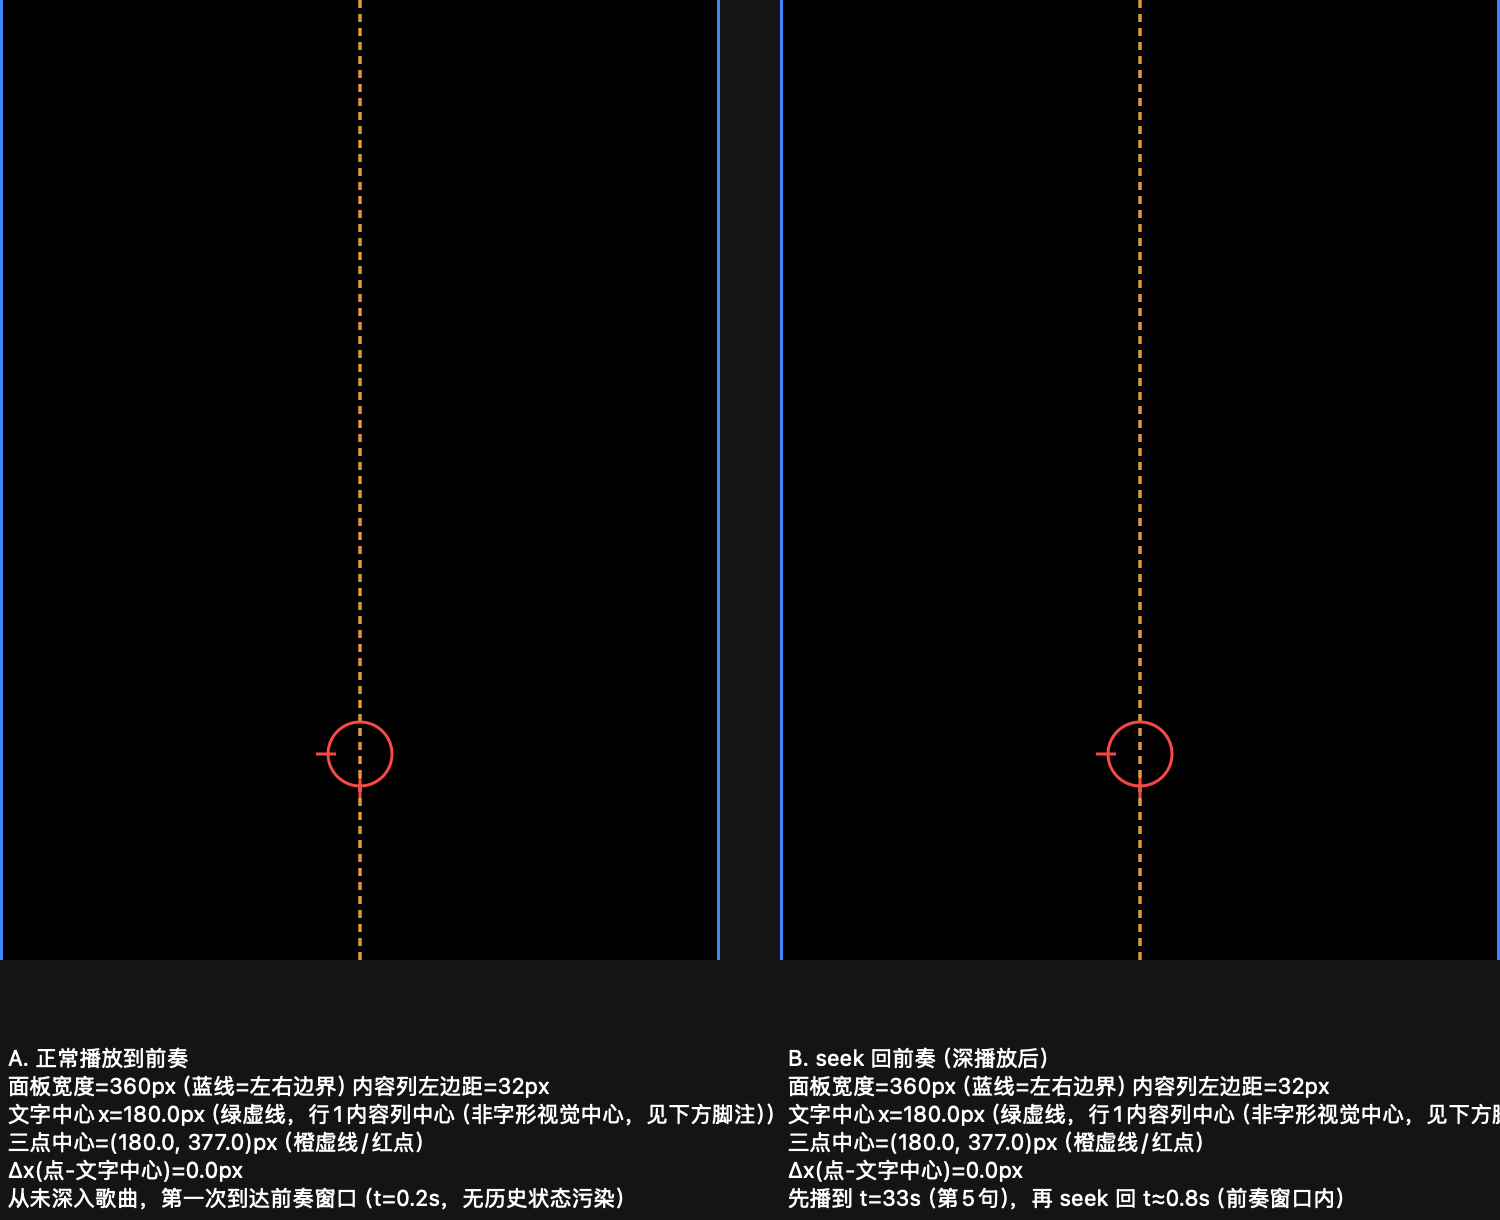
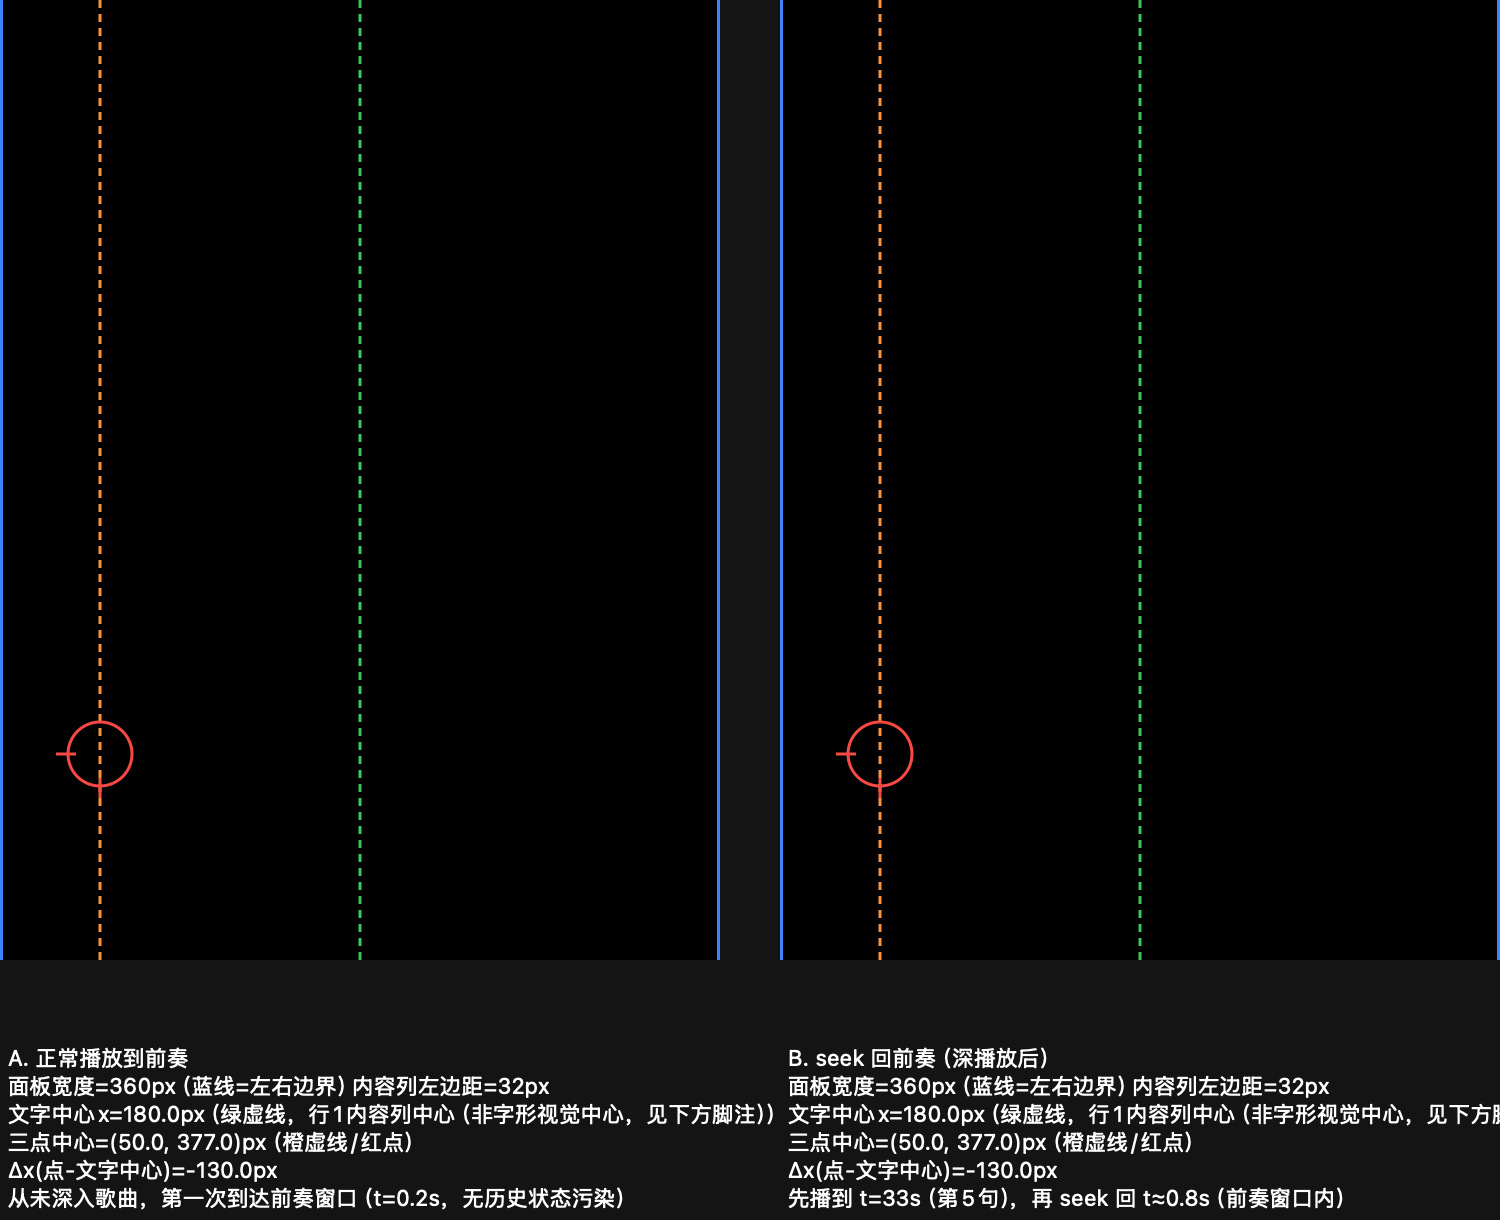
Revert "fix(lyrics-ui): centre prelude/interlude dots in the content column"
This reverts commit fca3ef27665f2c62cf904f06083546e1cee43348.

diff --git a/Tests/MusicMiniPlayerTests/LyricsRenderDefects20260914ReproTests.swift b/Tests/MusicMiniPlayerTests/LyricsRenderDefects20260914ReproTests.swift
@@ -755,60 +755,6 @@ final class LyricsRenderDefects20260914ReproTests: XCTestCase {
         )
     }
 
-    /// Coordinator (2026-09-14): "检查 CJK/长句换行行的居中基准是否一致" — the dot centring
-    /// fix uses `frame.midX` of the row's CONTENT COLUMN, which per `layout()`
-    /// (NativeLyricsRowView.swift) always spans the full available width
-    /// (rowWidth - leading - trailing inset) REGARDLESS of the actual text/glyphs it holds — so
-    /// the centring basis is a pure function of panel width, independent of language or wrap
-    /// count by construction. This test verifies that empirically across a short English line, a
-    /// long line that wraps to 3 lines, and a CJK line that wraps to 2 lines — the prelude dots'
-    /// centre X must be IDENTICAL across all three (and equal the plain content-column centre),
-    /// even though their mainTextLayer content differs completely.
-    @MainActor
-    func test_dotCentering_consistentAcrossShortLongAndCJKWrappedContent() {
-        let panelWidth: CGFloat = 220
-        let contentColumnCenterX = nativeLyricContentLeadingInset
-            + (panelWidth - nativeLyricContentLeadingInset - nativeLyricContentTrailingInset) / 2
-
-        func dotCenterX(for text: String) -> CGFloat {
-            let line = LyricLine(text: text, startTime: 0, endTime: 12, words: [])
-            let preludeRow = LayerBackedLyricRow(
-                id: "prelude", index: 0,
-                displayLine: DisplayLyricLine(id: "prelude", sourceIndex: 0, segmentIndex: 0, segmentCount: 1, line: line),
-                sourceLine: line, isPrelude: true, preludeEndTime: 12, interlude: nil
-            )
-            let view = NativeLyricsRowView(frame: NSRect(x: 0, y: 0, width: panelWidth, height: 96))
-            host(view, NSSize(width: panelWidth, height: 96))
-            let mc = MusicController(preview: true)
-            mc.isPlaying = true
-            mc.duration = 240
-            mc.syncPlaybackClock(to: 0.2, playing: true)
-            let cfg = config(rows: [preludeRow], current: 0, mc: mc, width: panelWidth)
-            view.configure(row: preludeRow, configuration: cfg)
-            view.frame = NSRect(x: 0, y: 0, width: panelWidth, height: view.measuredHeight(width: panelWidth))
-            view.layoutSubtreeIfNeeded()
-            return view.debugDotContainerCenter(in: view.layer!).x
-        }
-
-        let shortEN = dotCenterX(for: "…") // prelude marker itself — degenerate/short case
-        let longEN = dotCenterX(for: "every single word you ever said to me still echoes down this hallway")
-        let cjk = dotCenterX(for: "想走出你控制的领域就从今晚开始整个世界为我而转动")
-
-        print("[DotCentering] contentColumnCenterX=\(contentColumnCenterX) short=\(shortEN) longEN=\(longEN) cjk=\(cjk)")
-
-        XCTAssertEqual(shortEN, contentColumnCenterX, accuracy: 0.01)
-        XCTAssertEqual(longEN, contentColumnCenterX, accuracy: 0.01,
-            "dot centre must match the content-column centre even for a row whose LAST configured " +
-            "content was a long, 3-line-wrapping phrase")
-        XCTAssertEqual(cjk, contentColumnCenterX, accuracy: 0.01,
-            "dot centre must match the content-column centre even for a row whose LAST configured " +
-            "content was a wrapped CJK phrase")
-        XCTAssertEqual(shortEN, longEN, accuracy: 0.01)
-        XCTAssertEqual(longEN, cjk, accuracy: 0.01,
-            "the centring basis itself must be IDENTICAL across short/long/CJK content — it does " +
-            "not shift with language or wrap count")
-    }
-
     // ━━━━━━━━━━━━━━━━━━━━━━━━━━━━━━━━━━━━━━━━━━━━━━━━━━━━━━━━━━━━━━━━━━━━━━━
     // MARK: - Whole-line-flash instrumentation: UserDefaults switch
     //

diff --git a/Sources/MusicMiniPlayerCore/UI/LyricsLayerRendererView.swift b/Sources/MusicMiniPlayerCore/UI/LyricsLayerRendererView.swift
@@ -724,17 +724,12 @@ final class NativeLyricsSurfaceView: NSView {
             + NativeLyricsHeightAccumulator.interludeGapHeight / 2 - NativeLyricsDotPhasePlan.baseDotSize / 2
         surfaceInterludeOverlay.frame = CGRect(x: 0, y: 0, width: bounds.width, height: bounds.height)
         let dotSize = NativeLyricsDotPhasePlan.baseDotSize
-        // 2026-09-14 founder: dots centre in the CONTENT COLUMN, same rule as
-        // NativeLyricsRowView.layoutDotContainer (the prelude row dots) — not the left inset.
-        // The content column is [leading inset, rowWidth - trailing inset], the same box a row's
-        // own text layer spans.
-        let contentColumnWidth = max(1, configuration.rowWidth - nativeLyricContentLeadingInset - nativeLyricContentTrailingInset)
-        let containerCenterX = nativeLyricContentLeadingInset + contentColumnWidth / 2
+        let containerX = nativeLyricContentLeadingInset
         // The container bounds and per-dot positions are STATIC (set once in setupSurfaceInterludeDots),
         // so they can never collapse here. Only the group's screen position (Y travels with the gap),
         // opacity, scale and blur are dynamic.
         surfaceInterludeDotContainer.position = CGPoint(
-            x: containerCenterX,
+            x: containerX + surfaceInterludeDotContainer.bounds.width / 2,
             y: y + dotSize / 2
         )
         let currentTime = configuration.phaseRenderTime()

diff --git a/Sources/MusicMiniPlayerCore/UI/NativeLyricsRowView.swift b/Sources/MusicMiniPlayerCore/UI/NativeLyricsRowView.swift
@@ -2837,15 +2837,7 @@ final class NativeLyricsRowView: NSView {
         let totalWidth = dotSize * CGFloat(dotLayers.count) + spacing * CGFloat(max(0, dotLayers.count - 1))
         var x: CGFloat = 0
         dotContainerLayer.bounds = CGRect(x: 0, y: 0, width: totalWidth, height: dotSize)
-        // 2026-09-14 founder: 三点要像当前行文字一样横向居中，不是贴左边距摆。`frame` is the
-        // row's CONTENT COLUMN (left inset..trailing inset, the same box mainTextLayer's frame
-        // spans) — centre the dot cluster in that column, exactly the same formula
-        // updateSurfaceInterludeDots (LyricsLayerRendererView.swift) uses for the interlude
-        // overlay dots, so both dot presentations share one centring rule. This does not touch
-        // vertical anchoring (still `frame.midY`, unrelated to interludeAnchorAdvance) and is not
-        // a per-role shim — it is the SAME formula for every row's salient content, just applied
-        // to a cluster of dots instead of a text run.
-        dotContainerLayer.position = CGPoint(x: frame.midX, y: frame.midY)
+        dotContainerLayer.position = CGPoint(x: frame.minX + totalWidth / 2, y: frame.midY)
         for dot in dotLayers {
             dot.bounds = CGRect(x: 0, y: 0, width: dotSize, height: dotSize)
             dot.position = CGPoint(x: x + dotSize / 2, y: dotSize / 2)
